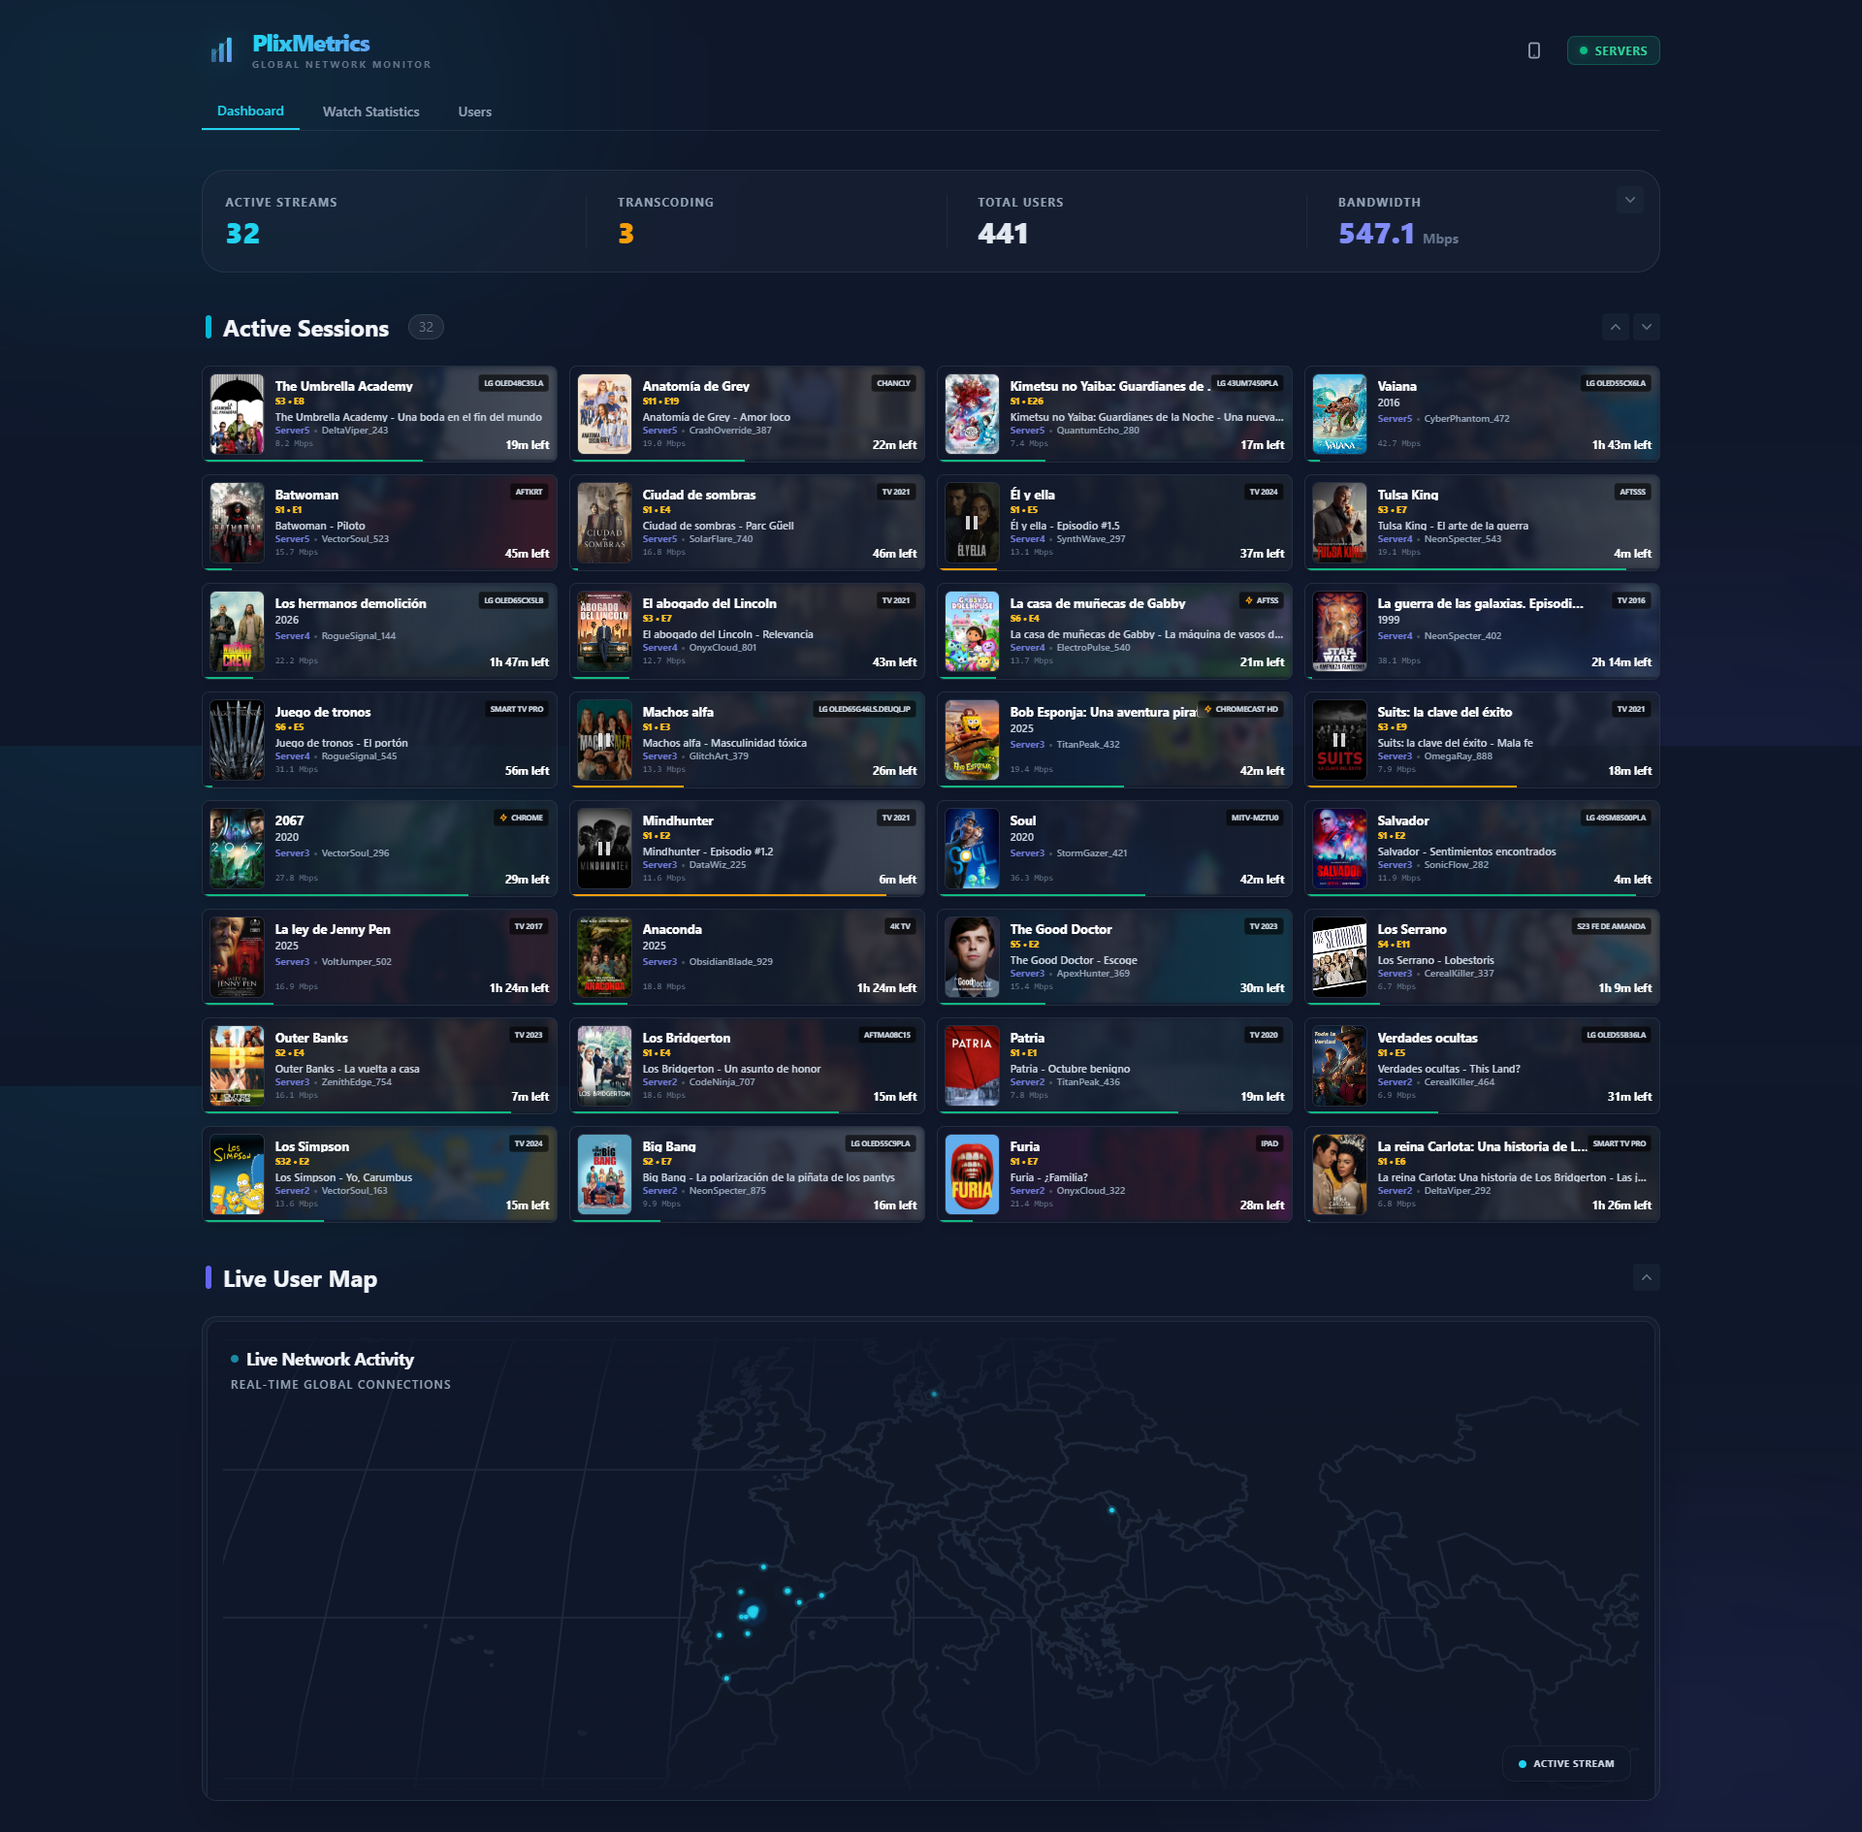
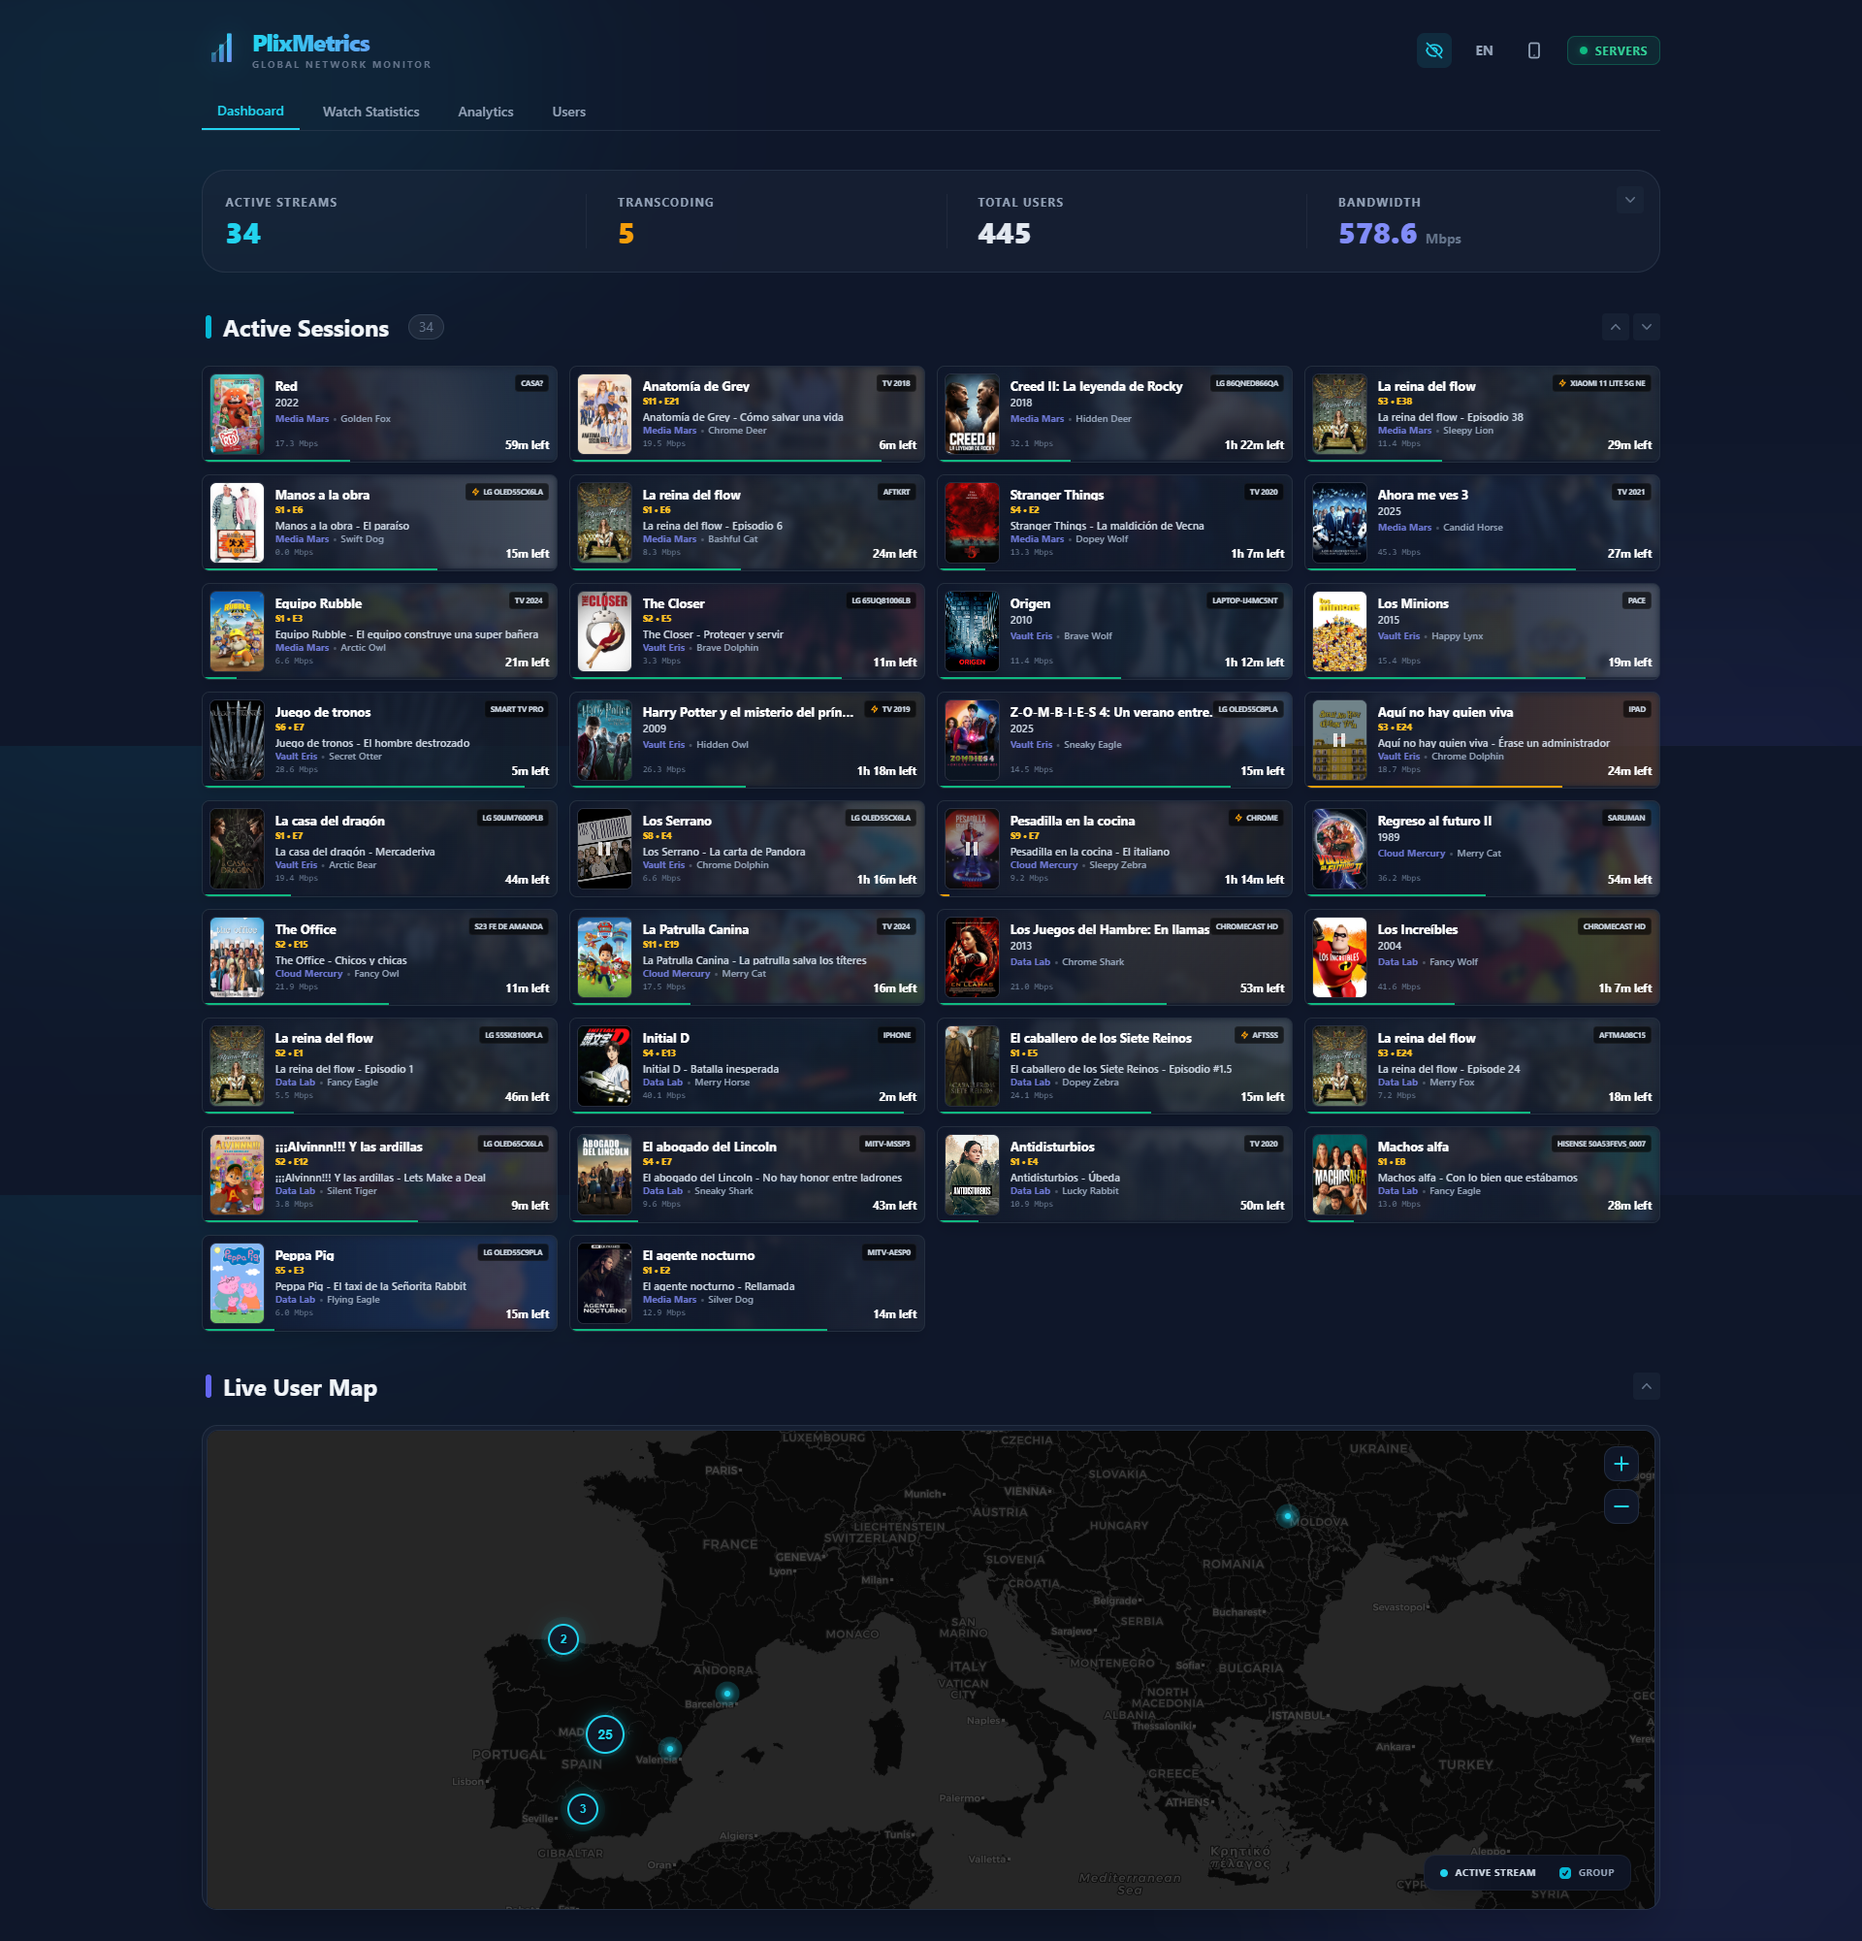
feat(release): v1.3.0 - Live Map

diff --git a/README.md b/README.md
@@ -6,9 +6,17 @@ A self-hosted, real-time Plex network monitoring dashboard. Track multiple Tautu
 
 ## 📸 Screenshots
 
-| 📊 Statistics | 👥 Users | 📱 Mobile View |
-| :---: | :---: | :---: |
-| ![Stats](docs/stats.png) | ![Users](docs/users.png) | ![Mobile](docs/mobile.png) |
+| 📊 Statistics | � Analytics |
+| :---: | :---: |
+| ![Stats](docs/stats.png) | ![Analytics](docs/analytics.png) |
+
+| 👥 Users | 📱 Mobile View |
+| :---: | :---: |
+| ![Users](docs/users.png) | ![Mobile](docs/mobile.png) |
+
+| ✨ Session Detail |
+| :---: |
+| ![Session Detail](docs/sessioncard.png) |
 
 ## Features
 
@@ -17,6 +25,7 @@ A self-hosted, real-time Plex network monitoring dashboard. Track multiple Tautu
 - 📈 **Watch Statistics** - Most watched movies, shows, users, platforms
 - 🔒 **Secure & Self-Hosted** - Password protection, JWT authentication, and local data storage
 - 🐳 **Docker Ready** - Easy deployment with Docker Compose
+- 🖥 **Windows Native** - Easy to use standalone installer (.exe) with auto-updates
 - 🚀 **Lightweight** - Single container, SQLite database
 - 📱 **Mobile Ready** - Responsive design with PWA support
 - 🌍 **Multi-language Support** - Available in English, Spanish, French, Portuguese, German, Russian, and Chinese
